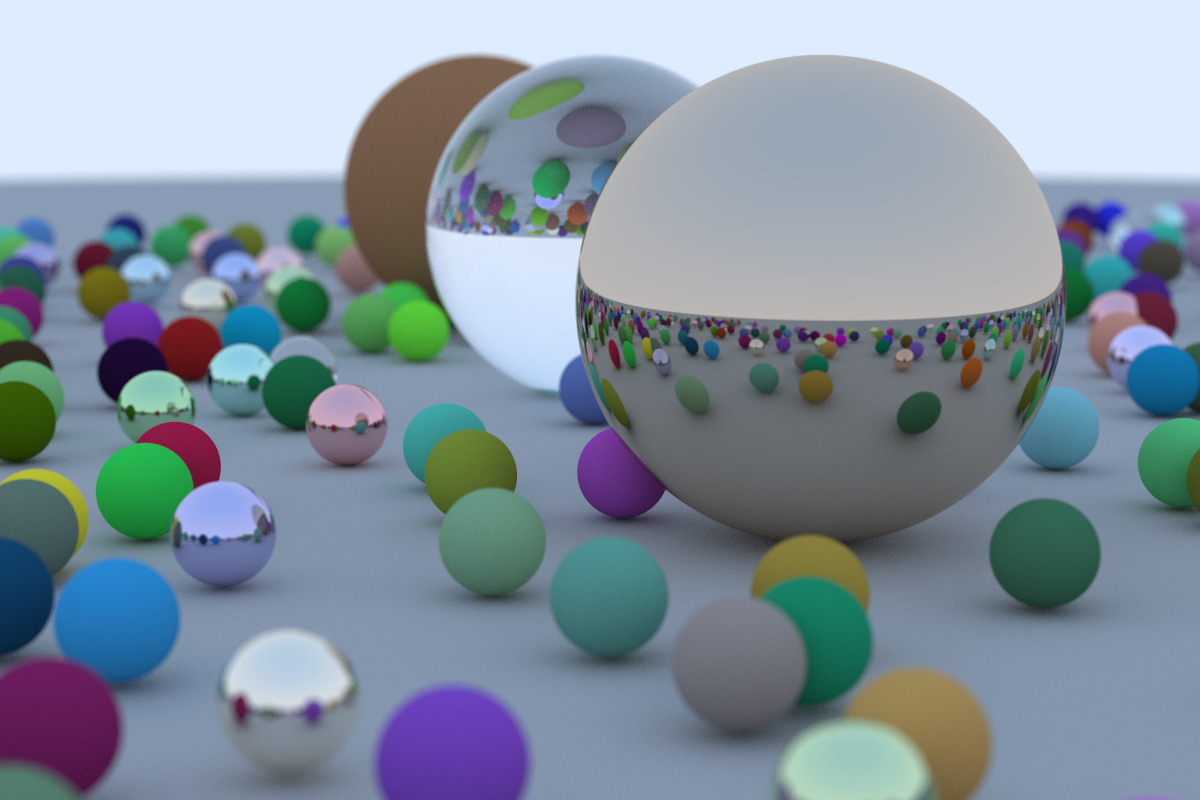
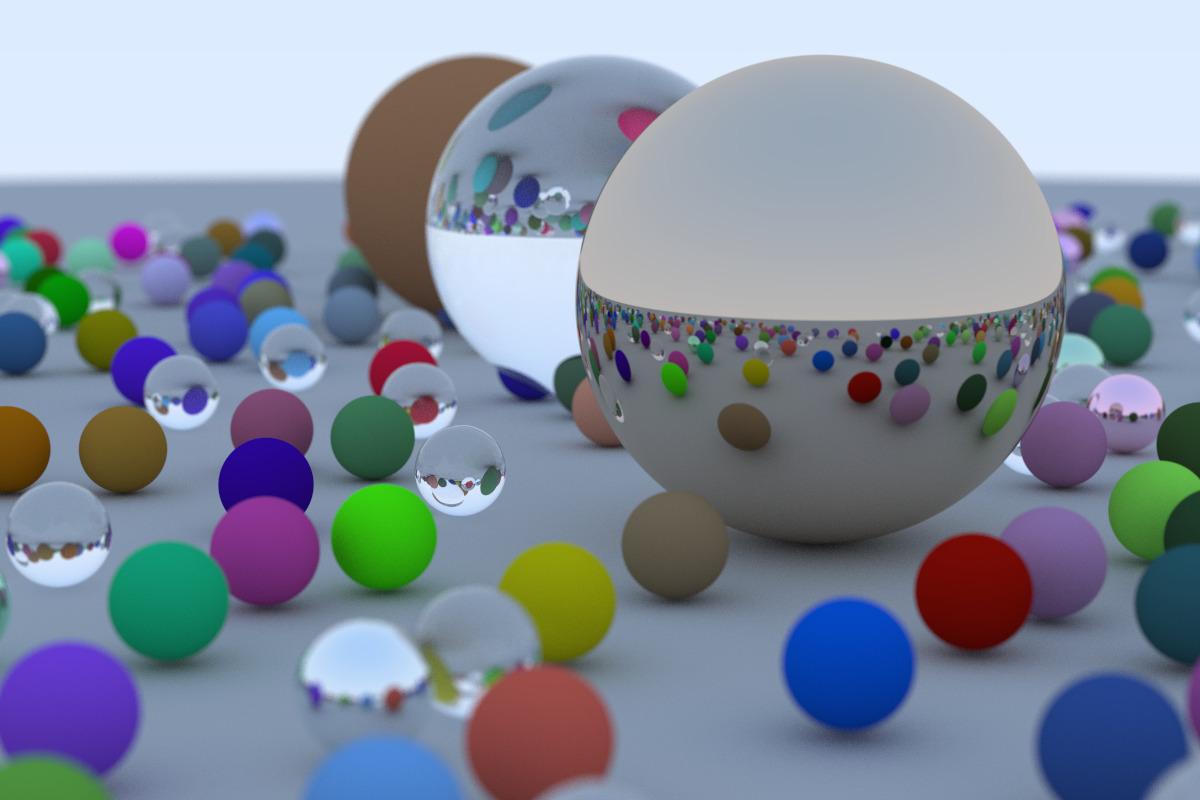
Change the rate of appearance of each materials

diff --git a/src/lib.rs b/src/lib.rs
@@ -106,12 +106,12 @@ fn random_scene() -> HittableList {
             );
 
             if (center - Point3::new(4., 0.2, 0.)).length() > 0.9 {
-                if choose_mat < 0.8 {
+                if choose_mat < 0.7 {
                     // diffuse
                     let albedo = Color::random() * Color::random();
                     let sphere_material = Arc::new(Lambertian::new(albedo));
                     world.add(Arc::new(Sphere::new(center, 0.2, sphere_material)));
-                } else if choose_mat < 0.95 {
+                } else if choose_mat < 0.8 {
                     // metal
                     let albedo = Color::random_in_range(0.5, 1.);
                     let fuzz = random::<f64>() * 0.5;
